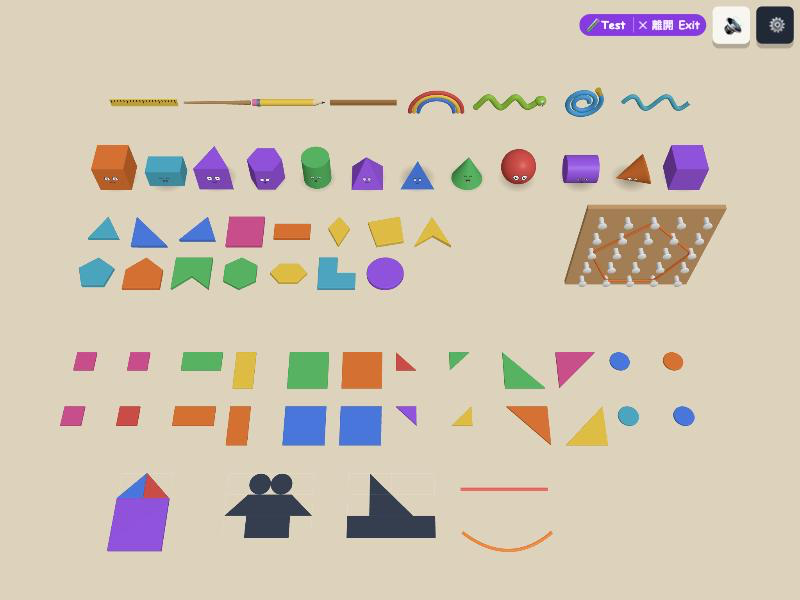
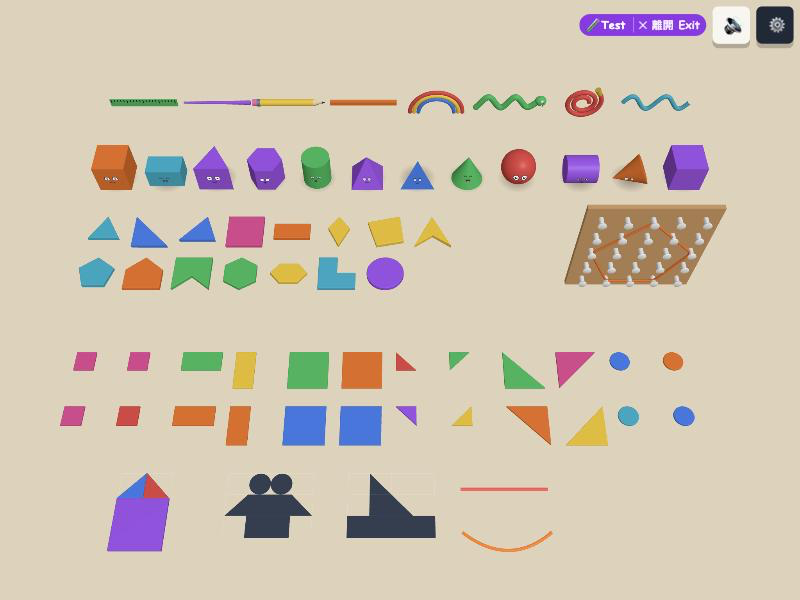
fix(shapes): review fixes for solids, tiles, wires and pegboard

diff --git a/shapes/models/tiles.js b/shapes/models/tiles.js
@@ -26,7 +26,11 @@ function plate(shapes, thickness, size) {
   return geo;
 }
 
-/** Flat plastic tile from TILE_TEMPLATES, centred on the origin in a size × size box, top at y = thickness. */
+/**
+ * Flat plastic tile from TILE_TEMPLATES, centred on the origin in a size × size box, top at y = thickness.
+ * Turning: mesh.rotation.y = -rot * Math.PI / 180 turns it clockwise as seen from above (template y runs to world +z).
+ * userData: { templateId, size, thickness, top, points: [[x, z]...] | null (circle), radius (circle only, else null) }.
+ */
 export function makeTile(templateId, { color = toyColor(), size = 1, thickness = 0.12 } = {}) {
   const t = templateById(templateId);
   if (!t) throw new Error(`Unknown tile "${templateId}"`);
@@ -37,7 +41,13 @@ export function makeTile(templateId, { color = toyColor(), size = 1, thickness =
     return plate([sh], thickness, size);
   });
   const m = new THREE.Mesh(geo, std(color));
-  m.userData = { templateId, size, thickness };
+  const k = size / 2;
+  m.userData = {
+    templateId, size, thickness,
+    top: thickness,                                                 // height of the top face above the mesh origin
+    points: t.circle ? null : t.points.map(([x, y]) => [x * k, y * k]), // outline as [x, z] in mesh space (template y = world z)
+    radius: t.circle ? k : null,
+  };
   return m;
 }
 
@@ -159,12 +169,12 @@ export function makeOutline(puzzle, { cell = 1 } = {}) {
 const tube = (curve, segs, r) => new THREE.TubeGeometry(curve, segs, r, 10, false);
 const mesh = (geo, color, extra) => new THREE.Mesh(geo, std(color, extra));
 
-function wireParts(id) {
+function wireParts(id, color) {
   const parts = [];
   const add = (geo, color, extra) => parts.push(mesh(geo, color, extra));
   switch (id) {
     case 'ruler': {
-      add(new THREE.BoxGeometry(2, 0.26, 0.05), 0xfacc15);
+      add(new THREE.BoxGeometry(2, 0.26, 0.05), color);
       const ticks = [];
       for (let i = 0; i <= 20; i++) {
         const h = i % 5 === 0 ? 0.12 : 0.07, t = new THREE.BoxGeometry(0.02, h, 0.01);
@@ -174,11 +184,11 @@ function wireParts(id) {
       break;
     }
     case 'chopstick': {
-      const g = new THREE.CylinderGeometry(0.03, 0.065, 2, 12); g.rotateZ(Math.PI / 2); add(g, 0xc08a4b); // thick end on the right
+      const g = new THREE.CylinderGeometry(0.03, 0.065, 2, 12); g.rotateZ(Math.PI / 2); add(g, color); // thick end on the right
       break;
     }
     case 'pencil': {
-      const body = new THREE.CylinderGeometry(0.11, 0.11, 1.6, 6); body.rotateZ(Math.PI / 2); body.translate(-0.1, 0, 0); add(body, 0xfacc15);
+      const body = new THREE.CylinderGeometry(0.11, 0.11, 1.6, 6); body.rotateZ(Math.PI / 2); body.translate(-0.1, 0, 0); add(body, color);
       const wood = new THREE.ConeGeometry(0.11, 0.3, 6); wood.rotateZ(-Math.PI / 2); wood.translate(0.85, 0, 0); add(wood, 0xf3d9a8);
       const lead = new THREE.ConeGeometry(0.035, 0.1, 8); lead.rotateZ(-Math.PI / 2); lead.translate(1.0, 0, 0); add(lead, 0x1f2937);
       const band = new THREE.CylinderGeometry(0.115, 0.115, 0.1, 6); band.rotateZ(Math.PI / 2); band.translate(-0.95, 0, 0); add(band, 0x94a3b8, { metalness: 0.5 });
@@ -186,10 +196,10 @@ function wireParts(id) {
       break;
     }
     case 'stick': {
-      add(new THREE.BoxGeometry(2, 0.12, 0.12), 0xb7793c);
+      add(new THREE.BoxGeometry(2, 0.12, 0.12), color);
       break;
     }
-    case 'rainbow': {
+    case 'rainbow': { // keeps its stripes (the colour override does not apply)
       [[0.8, 0xef4444], [0.67, 0xfacc15], [0.54, 0x3b82f6]].forEach(([r, c]) => {
         const pts = Array.from({ length: 33 }, (_, i) => { const a = (i / 32) * Math.PI; return new THREE.Vector3(r * Math.cos(a), r * Math.sin(a) - 0.4, 0); });
         add(tube(new THREE.CatmullRomCurve3(pts), 48, 0.06), c);
@@ -200,7 +210,7 @@ function wireParts(id) {
       const c = new THREE.CatmullRomCurve3([[-1, -0.18], [-0.65, 0.22], [-0.25, -0.2], [0.15, 0.22], [0.55, -0.18], [0.85, 0.05]].map(([x, y]) => new THREE.Vector3(x, y, 0)));
       const h = c.getPoint(1), t = c.getPoint(0), hd = new THREE.SphereGeometry(0.15, 20, 14), tl = new THREE.SphereGeometry(0.09, 12, 10);
       hd.scale(1.15, 1, 1); hd.translate(h.x + 0.07, h.y + 0.02, 0); tl.translate(t.x, t.y, 0);
-      add(merge([tube(c, 80, 0.09), hd, tl]), 0x84cc16);
+      add(merge([tube(c, 80, 0.09), hd, tl]), color);
       const eyes = [], pupils = [];
       for (const dy of [0.07, -0.05]) {
         const e = new THREE.SphereGeometry(0.045, 12, 10); e.translate(h.x + 0.1, h.y + 0.02 + dy, 0.12); eyes.push(e);
@@ -209,10 +219,10 @@ function wireParts(id) {
       add(merge(eyes), 0xffffff); add(merge(pupils), 0x1f2937);
       break;
     }
-    case 'hose': {
+    case 'hose': { // a coiled garden hose (flat spiral) ending in a brass nozzle
       const pts = [], turns = 2.1;
       for (let i = 0; i <= 90; i++) { const t = i / 90, a = t * turns * Math.PI * 2, r = 0.18 + 0.38 * t; pts.push(new THREE.Vector3(r * Math.cos(a), r * Math.sin(a), 0)); }
-      add(tube(new THREE.CatmullRomCurve3(pts), 160, 0.07), 0x0ea5e9);
+      add(tube(new THREE.CatmullRomCurve3(pts), 160, 0.07), color);
       const e = pts[pts.length - 1], d = pts[pts.length - 1].clone().sub(pts[pts.length - 2]).normalize();
       const nz = new THREE.CylinderGeometry(0.09, 0.07, 0.22, 14);
       nz.rotateZ(-Math.atan2(d.x, d.y)); nz.translate(e.x + d.x * 0.1, e.y + d.y * 0.1, 0); add(nz, 0xfacc15, { metalness: 0.3 });
@@ -220,7 +230,7 @@ function wireParts(id) {
     }
     case 'wave': {
       const pts = Array.from({ length: 41 }, (_, i) => { const x = -1 + i * 0.05; return new THREE.Vector3(x, 0.25 * Math.sin(x * Math.PI * 2), 0); });
-      add(tube(new THREE.CatmullRomCurve3(pts), 120, 0.065), 0x06b6d4);
+      add(tube(new THREE.CatmullRomCurve3(pts), 120, 0.065), color);
       break;
     }
     default: throw new Error(`Unknown line "${id}"`);
@@ -241,19 +251,24 @@ function merge(geos) {
   return out;
 }
 
-/** B1 straight / curved thing from LINES, standing in the XY plane facing +z, about 2 wide. userData = { lineId, curved }. */
-export function makeWire(lineId) {
+/**
+ * B1 straight / curved thing from LINES, standing in the XY plane facing +z, about 2 wide. userData = { lineId, curved }.
+ * `color` (default: a random toy colour, never chosen by line type) paints the main body; small details (ruler ticks, pencil lead,
+ * snake eyes, hose nozzle) keep their own colours, and the rainbow keeps its stripes.
+ */
+export function makeWire(lineId, { color = toyColor() } = {}) {
   const info = LINES.find(l => l.id === lineId);
   if (!info) throw new Error(`Unknown line "${lineId}"`);
   const g = new THREE.Group();
-  for (const p of wireParts(lineId)) g.add(p);
+  for (const p of wireParts(lineId, color)) g.add(p);
   g.userData = { lineId, curved: info.curved };
   return g;
 }
 
 /** Straight laser beam between two points ([x,y,z] or Vector3). */
 export function makeLaser(a, b, { color = 0xef4444, radius = 0.035 } = {}) {
-  const A = v3(a), B = v3(b), len = Math.max(A.distanceTo(B), 1e-4);
+  const A = v3(a), B = v3(b), len = A.distanceTo(B);
+  if (len < 1e-6) { const h = new THREE.Mesh(new THREE.BufferGeometry(), std(color)); h.visible = false; return h; } // same point: nothing to draw
   const m = new THREE.Mesh(new THREE.CylinderGeometry(radius, radius, len, 10),
     std(color, { emissive: color, emissiveIntensity: 0.6, roughness: 0.3 }));
   m.position.copy(A).lerp(B, 0.5);
@@ -275,6 +290,9 @@ export function makeCurve(a, b, bend = 0.6, { color = 0xf97316, radius = 0.035 }
 /**
  * Upright wooden pegboard facing +z, centred on the origin, front face at z = 0. userData.pegs[x][y] is a Mesh (x, y as in PEG_GRID,
  * y down: peg [0][0] is top-left) whose position is where a rubber band should run (on the shaft, in the board's own frame).
+ * Pegs are small, so each carries an invisible hit sphere (r = 0.4 * spacing) as peg.userData.hit; userData.hits is the flat
+ * array of them. Register `board.userData.hits` as input.onTap targets: a tap resolves to the registered object (the hit sphere),
+ * whose userData.peg is [x, y] (and userData.mesh the peg). The spheres are not drawn but still count for raycasting.
  */
 export function makePegboard({ spacing = 1 } = {}) {
   const s = spacing, g = new THREE.Group(), half = (PEG_GRID - 1) / 2;
@@ -286,16 +304,20 @@ export function makePegboard({ spacing = 1 } = {}) {
     const l = new THREE.LatheGeometry(p, 16); l.rotateX(Math.PI / 2); l.translate(0, 0, -bandZ);
     return l;
   });
-  const pegs = [];
+  const hitGeo = cached(`peghit|${s}`, () => new THREE.SphereGeometry(0.4 * s, 8, 6));
+  const pegs = [], hits = [];
   for (let x = 0; x < PEG_GRID; x++) {
     pegs[x] = [];
     for (let y = 0; y < PEG_GRID; y++) {
       const m = mesh(geo, 0xf8fafc, { roughness: 0.35 });
-      m.position.set((x - half) * s, (half - y) * s, bandZ); m.userData = { peg: [x, y] };
-      g.add(m); pegs[x][y] = m;
+      m.position.set((x - half) * s, (half - y) * s, bandZ);
+      const hit = new THREE.Mesh(hitGeo, new THREE.MeshBasicMaterial({ visible: false }));
+      hit.name = 'pegHit'; hit.userData = { peg: [x, y], mesh: m };
+      m.add(hit); m.userData = { peg: [x, y], hit };
+      g.add(m); pegs[x][y] = m; hits.push(hit);
     }
   }
-  g.userData = { pegs, spacing: s, bandZ };
+  g.userData = { pegs, hits, spacing: s, bandZ };
   return g;
 }
 

diff --git a/shapes/models/solids.js b/shapes/models/solids.js
@@ -103,24 +103,42 @@ function patch(id, pose) {
 }
 
 /**
- * Toy solid fitting a 1×1×1 box, origin = centre of its upright box. userData = { modelId, family, pose, restY, body, shadow }.
- * pose 'side' lays a cylinder on its curved side, or a cone on a line of its side (axis tilted so it rests naturally);
- * restY is the height of the origin above the floor when resting in that pose. A blob shadow sits on the floor under it
- * (shadow:false when the solid is lifted or simulated).
+ * Toy solid fitting a 1×1×1 box, origin = centre of its bounding box (in the pose it is in).
+ * pose 'side' lays a cylinder on its curved side, or a cone on a line of its side (axis tilted so it rests naturally).
+ * That pose is for scripted animation (A1 rolls and slides solids by tweening); physics is only for upright solids.
+ * A blob shadow sits on the floor under it (shadow:false when the solid is lifted or simulated).
+ * userData = {
+ *   modelId, family, pose, body, shadow,
+ *   restY    height of the origin above the floor when resting in this pose,
+ *   height   bounding height in this pose (= 2 * restY),
+ *   top      distance from the origin up to the top surface (= restY; what sits on it goes there),
+ *   axis     unit Vector3, group space: the symmetry / rolling axis (y upright; along the lying axis for 'side'; for a cone, apex end).
+ * }
  */
 export function makeSolid(modelId, { color = toyColor(), face = true, pose = 'upright', shadow = true } = {}) {
   const s = spec(modelId), family = familyOf(modelId);
-  if (!posesOf(modelId).includes(pose)) pose = 'upright';
+  if (!posesOf(modelId).includes(pose)) {
+    if (typeof location !== 'undefined' && /[?&]dev\b/.test(location.search)) console.warn(`makeSolid: pose "${pose}" is not allowed for ${modelId}; using upright`);
+    pose = 'upright';
+  }
   const group = new THREE.Group();
   const holder = new THREE.Group();
   group.add(holder);
   const body = new THREE.Mesh(s.geo, new THREE.MeshStandardMaterial({ color, roughness: 0.45, metalness: 0, flatShading: s.flat }));
   holder.add(body);
-  if (pose === 'side') holder.rotation.z = Math.PI / 2 + (s.tilt || 0);
+  const turn = pose === 'side' ? Math.PI / 2 + (s.tilt || 0) : 0;
+  holder.rotation.z = turn;
+  if (pose === 'side') { // keep the bounding box centred on the origin (a tilted cone's is not, by itself)
+    group.updateMatrixWorld(true);
+    const c = new THREE.Box3().setFromObject(body, true).getCenter(new THREE.Vector3());
+    holder.position.set(-c.x, -c.y, -c.z);
+  }
   if (face) addFace(group, family, patch(modelId, pose), holder);
   group.updateMatrixWorld(true);
   const restY = -new THREE.Box3().setFromObject(body, true).min.y;
-  group.userData = { ...group.userData, modelId, family, pose, restY, body };
+  const axis = new THREE.Vector3(0, 1, 0).applyAxisAngle(new THREE.Vector3(0, 0, 1), turn);
+  for (const k of ['x', 'y', 'z']) if (Math.abs(axis[k]) < 1e-9) axis[k] = 0;
+  group.userData = { ...group.userData, modelId, family, pose, restY, height: 2 * restY, top: restY, axis, body };
   if (shadow) {
     const sh = blobShadow(0.55); sh.position.y = -restY + 0.002; group.add(sh); group.userData.shadow = sh;
   }
@@ -129,6 +147,7 @@ export function makeSolid(modelId, { color = toyColor(), face = true, pose = 'up
 
 /**
  * Shape spec for the physics engine, in the solid's upright frame with the origin at its box centre.
+ * Physics is for upright solids only: the 'side' pose rotates an inner holder and has no matching shape (script it instead).
  * { type:'box', half } | { type:'sphere', r } | { type:'cylinder', rTop, rBottom, h } | { type:'convex', vertices, faces }
  * (a cone is a cylinder with a tiny rTop).
  */

diff --git a/shapes/models/faces.js b/shapes/models/faces.js
@@ -26,6 +26,15 @@ function spiral(g, x, y, r) {
   }
   line(g, 2.2); g.stroke();
 }
+// ctx.roundRect is missing on Safari < 16 (older school iPads), so draw the rounded square by hand
+function rrect(g, x, y, w, h, r) {
+  g.beginPath();
+  g.moveTo(x + r, y); g.lineTo(x + w - r, y); g.arcTo(x + w, y, x + w, y + r, r);
+  g.lineTo(x + w, y + h - r); g.arcTo(x + w, y + h, x + w - r, y + h, r);
+  g.lineTo(x + r, y + h); g.arcTo(x, y + h, x, y + h - r, r);
+  g.lineTo(x, y + r); g.arcTo(x, y, x + r, y, r);
+  g.closePath();
+}
 function closedEye(g, x, y, r) { g.beginPath(); g.arc(x, y - r * 0.2, r, 0.18 * Math.PI, 0.82 * Math.PI); line(g, 3.4); g.stroke(); }
 function happyEye(g, x, y, r) { g.beginPath(); g.arc(x, y + r * 0.45, r, 1.15 * Math.PI, 1.85 * Math.PI); line(g, 3.4); g.stroke(); }
 
@@ -46,7 +55,7 @@ function eyes(g, family, L, R, y) {
       break;
     case 'prism':
       for (const x of [L, R]) {
-        g.beginPath(); g.roundRect(x - 11, y - 11, 22, 22, 4); g.fillStyle = WHITE; g.fill(); line(g, 2.6); g.stroke();
+        rrect(g, x - 11, y - 11, 22, 22, 4); g.fillStyle = WHITE; g.fill(); line(g, 2.6); g.stroke();
         g.fillStyle = INK; g.fillRect(x - 4.5, y - 4, 9, 9);
       }
       break;
@@ -99,7 +108,8 @@ function draw(g, family, mood, blink) {
 
 /** Shared texture for family + mood ('blink' = eyes shut). */
 export function faceTexture(family, mood = 'normal') {
-  const key = family + '|' + mood;
+  // happy, oops and dizzy faces ignore the family, so they share one texture each
+  const key = ['happy', 'oops', 'dizzy'].includes(mood) ? mood : family + '|' + mood;
   let t = cache.get(key);
   if (!t) {
     const c = document.createElement('canvas'); c.width = c.height = SIZE;

diff --git a/shapes/scenes/SandboxScene.js b/shapes/scenes/SandboxScene.js
@@ -5,9 +5,9 @@ import { Scene } from '../engine/scenes.js?v=0';
 import { MODEL_IDS, posesOf, TILE_TEMPLATES, PIECE_IDS, puzzleById, LINES } from '../../shapes-logic.js?v=0';
 import { SCENE, toyColor } from '../theme.js?v=0';
 import { makeSolid, setMood, blink } from '../models/solids.js?v=0';
+import { MOODS } from '../models/faces.js?v=0';
 import { makeTile, makePiece, makeOutline, makeWire, makePegboard, makeBand, makeLaser, makeCurve } from '../models/tiles.js?v=0';
 
-const MOODS = ['normal', 'happy', 'oops', 'dizzy'];
 const VIEWS = {
   all:    { pos: [0, 18.5, 10.4],   look: [0, 0, -1.2] },
   solids: { pos: [-1.5, 4, -1.8],   look: [-1.5, 0.4, -5.4] },
@@ -69,7 +69,7 @@ export class SandboxScene extends Scene {
     world.add(makeCurve([1.4, 0.08, 5], [3.4, 0.08, 5], 0.4));
 
     LINES.forEach((l, i) => {
-      const w = makeWire(l.id);
+      const w = makeWire(l.id, { color: toyColor(rng) });
       w.position.set(-7.7 + i * 2.2, 0.65, -7.8); world.add(w); parts.wires.push(w);
     });
 
